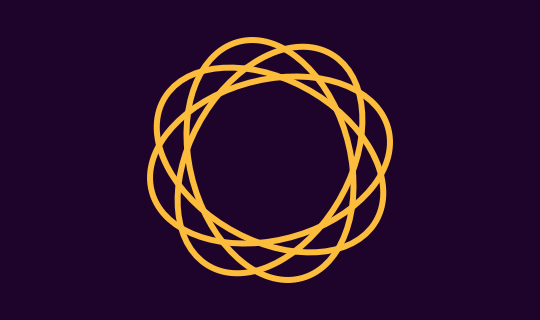
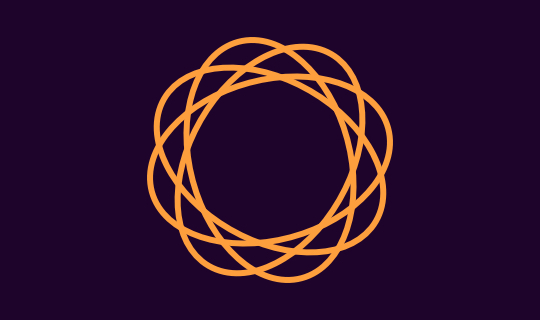
Updated header on top level pages to better fit the new tile layout
Also tidied up the navbar a little bit

Changed region(s): [[0.2667, 0.0938, 0.7407, 0.9062]]

diff --git a/_sass/_base.scss b/_sass/_base.scss
@@ -46,7 +46,8 @@ body {
 }
 
 .main-nav {
-	width: calc(100% - 20px);
+	width: 100%;
+	padding: 10px;
 	margin: 0px auto;
 	height: 80px;
 	display: flex;
@@ -57,10 +58,10 @@ body {
 	top: 0px;
 	left: 0px;
 	right: 0px;
-	will-change: transform;
+	border-bottom: 1px solid black;
 	
-	@media (min-width:740px) {
-		width: calc(100% - 60px);
+	@media (min-width: $tablet) {
+		padding: 20px;
 	}
 	
 	.sitename {
@@ -152,7 +153,7 @@ body {
 	
 	.hamburger {
 		position: absolute;
-		right: 0px;
+		right: 10px;
 		top: 27px;
 		width: 40px;
 		height: 26px;
@@ -229,23 +230,6 @@ body {
 			padding: 0px 30px;
 		}
 	}
-		
-/*
-	&.unpinned {
-		animation-name: slideOutUp;
-		animation-duration: 0.5s;
-		position: fixed;
-		z-index: 20;
-		top: 0px;
-		width: 100%;
-		padding: 0px 10px;
-		border: none !important;
-		
-		@media (min-width:$tablet) {
-			padding: 0px 30px;
-		}
-	}
-*/
 }
 
 .cover {
@@ -314,6 +298,7 @@ body {
 }
 
 .name {
+	text-align: center;
 	margin: {
 		top: 110px;
 		bottom: 60px;
@@ -331,35 +316,45 @@ body {
 		font-size: 1.5em;
 		@include dinalt;
 		line-height: 1.2em;
+		
+		span {
+			display: none;
+		}
 	}
 	
 	@media (min-width:$tablet) {
 		margin: {
-			top: 180px;
-			left: 10px;
+			top: 130px;
+			bottom: 100px;
 		}
 		
 		h1 {
-			font-size: 5.2em;
+			font-size: 100px;
 			margin-bottom: -20px;
 		}
 		
 		h2 {
-			font-size: 2.3em;
+			font-size: 25px;
+			
+			span{
+				display: inline;
+			}
 		}
 	}
 	
 	@media (min-width:$desktop) {
 		margin: {
-			top: 230px;
-			left: 15px;
+			top: 130px;
+			bottom: 100px;
 		}
-	}
-	
-	@media (min-width:$desktop-lrg) {
-		margin: {
-			top: 280px;
-			left: 20px;
+		
+		h1 {
+			font-size: 140px;
+			margin-bottom: -40px;
+		}
+		
+		h2 {
+			font-size: 34px;
 		}
 	}
 }

diff --git a/_sass/_apps.scss b/_sass/_apps.scss
@@ -18,6 +18,12 @@ $highlight: #65D3DE;
 	}
 	
 	.name {
+		padding-bottom: 20px;
+		
+		@media (min-width: $tablet) {
+			padding-bottom: 0px;
+		}
+		
 		h1	{
 			color: $highlight;
 		}
@@ -28,7 +34,7 @@ $highlight: #65D3DE;
 	}
 	
 	.main-nav {
-		border-bottom: 2px solid rgba($primary, 0.2);
+		border-color: rgba($primary, 0.2);
 		
 		.sitename span {
 			display: none;

diff --git a/_sass/_portfolio.scss b/_sass/_portfolio.scss
@@ -1,6 +1,6 @@
 $background: #F8F8F8;
 $primary: #1E042B;
-$highlight: #B779D6;
+$highlight: #FD9F3C;
 
 .portfolio {
 	background: $background;
@@ -28,7 +28,7 @@ $highlight: #B779D6;
 	}
 	
 	.main-nav {
-		border-bottom: 2px solid rgba($primary, 0.2);
+		border-color: rgba($primary, 0.2);
 		
 		.sitename span {
 			display: none;

diff --git a/_sass/_resume.scss b/_sass/_resume.scss
@@ -62,6 +62,7 @@ $highlight: #F78A60;
 	
 	.name {
 		margin-left: 0px;
+		text-align: left;
 		
 		h1	{
 			color: $highlight;
@@ -73,7 +74,7 @@ $highlight: #F78A60;
 	}
 	
 	.main-nav {
-		border-bottom: 2px solid rgba($primary, 0.2);
+		border-color: rgba($primary, 0.2);
 		
 		.sitename span {
 			display: none;

diff --git a/apps/index.html b/apps/index.html
@@ -7,11 +7,10 @@ theme: "#F8F8F8"
 description: "Interactive Designer from Sydney"
 ---
 
-<div class="constrained extra">
+
 	
-	{% include name.html %}
+{% include name.html %}
 	
-</div>
 
 <div class="constrained extra appsList">
 	<div class="appContainer">

diff --git a/_sass/portfolio/_aptapro.scss b/_sass/portfolio/_aptapro.scss
@@ -35,7 +35,7 @@ $highlight: #00B5DC;
 	}
 	
 	.main-nav {
-		border-bottom: 2px solid rgba($primary, 0.2);
+		border-color: rgba($primary, 0.2);
 		
 		.sitename, li a {
 			color: $primary;

diff --git a/_sass/portfolio/_arc.scss b/_sass/portfolio/_arc.scss
@@ -35,7 +35,7 @@ $highlight: #56A421;
 	}
 	
 	.main-nav {
-		border-bottom: 2px solid rgba($primary, 0.2);
+		border-color: rgba($primary, 0.2);
 		
 		.sitename, li a {
 			color: $primary;

diff --git a/_sass/portfolio/_eastland.scss b/_sass/portfolio/_eastland.scss
@@ -35,7 +35,7 @@ $highlight: #BC441C;
 	}
 	
 	.main-nav {
-		border-bottom: 2px solid rgba($primary, 0.2);
+		border-color: rgba($primary, 0.2);
 		
 		.sitename, li a {
 			color: $primary;

diff --git a/_sass/portfolio/_epoch.scss b/_sass/portfolio/_epoch.scss
@@ -58,7 +58,7 @@ $highlight: #FFD56F;
 	}
 	
 	.main-nav {
-		border-bottom: 2px solid rgba($primary, 0.2);
+		border-color: rgba($primary, 0.2);
 		
 		.sitename, li a {
 			color: $primary;

diff --git a/_sass/portfolio/_exvo.scss b/_sass/portfolio/_exvo.scss
@@ -48,7 +48,7 @@ $highlight: #00A5F0;
 	}
 	
 	.main-nav {
-		border-bottom: 2px solid rgba($primary, 0.2);
+		border-color: rgba($primary, 0.2);
 		
 		.sitename, li a {
 			color: $primary;

diff --git a/_sass/portfolio/_karinourish.scss b/_sass/portfolio/_karinourish.scss
@@ -35,7 +35,7 @@ $highlight: #005B9F;
 	}
 	
 	.main-nav {
-		border-bottom: 2px solid rgba($primary, 0.2);
+		border-color: rgba($primary, 0.2);
 		
 		.sitename, li a {
 			color: $primary;

diff --git a/_sass/portfolio/_nightlight.scss b/_sass/portfolio/_nightlight.scss
@@ -35,7 +35,7 @@ $highlight: #D7B48D;
 	}
 	
 	.main-nav {
-		border-bottom: 2px solid rgba($primary, 0.2);
+		border-color: rgba($primary, 0.2);
 		
 		.sitename, li a {
 			color: $primary;
